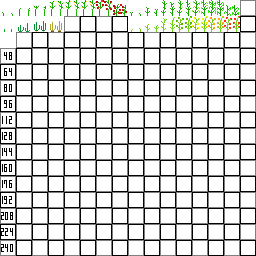
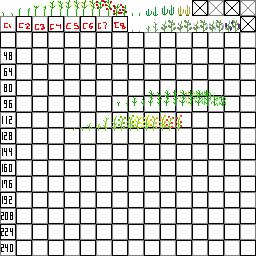
Fixed Crop Textures, added eggplant seed and plant textures. Renamed creative tab. Started work on Tea plant. Fixed harvest item. Added item descriptors. Fixed bell pepper crop ID check.

diff --git a/Source/net/widux/stevetech/farming/ItemHarvest.java b/Source/net/widux/stevetech/farming/ItemHarvest.java
@@ -3,25 +3,27 @@ package net.widux.stevetech.farming;
 import java.util.List;
 
 import net.minecraft.creativetab.CreativeTabs;
+import net.minecraft.entity.player.EntityPlayer;
 import net.minecraft.item.Item;
 import net.minecraft.item.ItemStack;
 
 public class ItemHarvest extends Item
 {
 	
-	public static final String[] names = {"Tomato", "Onion", "Cucumber", "Eggplant", "Tea Leaves", "Raw Coffe Beans", "Roasted Coffee Beans", "Lettuce", "Radishes"};
+	public static final String[] names = {"Tomato", "Cucumber", "Eggplant", "Tea Leaves", "Raw Coffee Beans", "Roasted Coffee Beans", "Lettuce", "Radishes"};
+	public static final String[] info = {"", "", "", "", "Should be roasted before use", "", "", ""};
 	
 	public ItemHarvest(int ID)
 	{
 		super(ID);
 		this.setMaxDamage(0);
 		this.setHasSubtypes(true);
-		this.setCreativeTab(SteveTechFarming.betterFarmingTab);
+		this.setCreativeTab(SteveTechFarming.stFarmingTab);
 	}
 	
 	public String getTextureFile()
 	{
-		return "/widux/betterfarming/Item.png";
+		return "/net/widux/stevetech/farming/item.png";
 	}
 	
 	public int getIconFromDamage(int meta)
@@ -29,9 +31,18 @@ public class ItemHarvest extends Item
 		return 16 + meta;
 	}
 	
-	public String getUnlocalizedName(ItemStack item)
+	public String getItemNameIS(ItemStack item)
 	{
 		return "WiduX-BF-Item-Harvest." + names[item.getItemDamage()];
+	}
+	
+	@Override
+	public void addInformation(ItemStack item, EntityPlayer player, List list, boolean flag)
+	{
+		if(!"".equals(info[item.getItemDamage()])) // If this item has an extended description
+		{
+			list.add(info[item.getItemDamage()]);
+		}
 	}
 	
     @SuppressWarnings({ "rawtypes", "unchecked" })

diff --git a/Source/net/widux/stevetech/farming/EnumCrop.java b/Source/net/widux/stevetech/farming/EnumCrop.java
@@ -8,7 +8,8 @@ public enum EnumCrop
 	TOMATO		("Tomato",		8, 2, 5, 3, 80, new ItemStack(SteveTechFarming.harvestedItems, 1, 0),	new ItemStack(SteveTechFarming.seeds, 1, 0),	true, true),
 	ONION		("Onion",		4, 1, 4, 1, 110, new ItemStack(SteveTechFarming.seeds, 1, 1),			null,											false, false),
 	CUCUMBER	("Cucumber",	0, 2, 4, 4, 60, new ItemStack(SteveTechFarming.harvestedItems, 1, 1),	new ItemStack(SteveTechFarming.seeds, 1, 2),	true, true),
-	EGGPLANT	("Eggplant",	4, 1, 4, 1, 140, new ItemStack(SteveTechFarming.harvestedItems, 1, 2),	new ItemStack(SteveTechFarming.seeds, 1, 3),	true, true);//,
+	EGGPLANT	("Eggplant",	7, 1, 5, 3, 140, new ItemStack(SteveTechFarming.harvestedItems, 1, 2),	new ItemStack(SteveTechFarming.seeds, 1, 3),	true, true),
+	TEA			("Tea",			4, 2, 4, 4, 100, new ItemStack(SteveTechFarming.harvestedItems, 1, 3),	new ItemStack(SteveTechFarming.seeds, 1, 4),	true, true);
 	//BEANS		("Beans",		7, 2, 5, 1, 50, new ItemStack(SteveTechFarming.seeds, 1, 1),			null,											false, false),
 	//BELLPEPPER	("Bell Pepper",	7, 1, 4, 3, 70, new ItemStack(SteveTechFarming.harvestedItems, 1, 0),	new ItemStack(SteveTechFarming.seeds, 1, 3),	true, true),
 	//LETTUCE		("Lettuce",		0, 1, 5, 4, 55, new ItemStack(SteveTechFarming.harvestedItems, 1, 6),	new ItemStack(SteveTechFarming.seeds, 1, 6),	true, true);

diff --git a/Source/net/widux/stevetech/farming/TileEntityCrop.java b/Source/net/widux/stevetech/farming/TileEntityCrop.java
@@ -135,13 +135,13 @@ public class TileEntityCrop extends TileEntity
 		boolean dropsSeed = this.crop.getDropsSeed();
 		ItemStack[] items = {null, null};
 		
-		if(crop == 3) // Bell Pepper
+		if(crop == 9) // Bell Pepper TODO Verify this.
 		{
 			items[0] = new ItemStack(SteveTechFarming.harvestedItems, getAmountDropped(true), stage - 2);
 			items[1] = new ItemStack(SteveTechFarming.seeds, getAmountDropped(false), crop);
 			return items;
 		}
-		else if(!dropsSeed) // Shouldn't drop seeds, just harvest
+		if(!dropsSeed) // Shouldn't drop seeds, just harvest
 		{
 			items[0] = new ItemStack(getDropHarvest(crop).itemID, getAmountDropped(true), getDropHarvest(crop).getItemDamage());
 			items[1] = null;
@@ -325,8 +325,7 @@ public class TileEntityCrop extends TileEntity
 		else
 		{
 			int half = this.crop.getGrowthSpeed() / 2;
-			
-			return (int) (half - (half * (this.fertilizer / 115.000F)));
+			return (int) (half - (half * (this.fertilizer / 200.000F)));
 		}
 	}
 	

diff --git a/Source/net/widux/stevetech/farming/ClientProxy.java b/Source/net/widux/stevetech/farming/ClientProxy.java
@@ -54,7 +54,7 @@ public class ClientProxy extends CommonProxy
 		LanguageRegistry.addName(new ItemStack(SteveTechFarming.creativeTools, 1, 2), "Full Fertilizer");
 		LanguageRegistry.addName(new ItemStack(SteveTechFarming.creativeTools, 1, 3), "Plant Info");
 		
-		LanguageRegistry.instance().addStringLocalization("itemGroup.BetterFarming", "en_US", "BetterFarming");
+		LanguageRegistry.instance().addStringLocalization("itemGroup.SteveTechFarming", "en_US", "SteveTech Farming");
 		//LanguageRegistry.addName(new ItemStack(SteveTechFarming.fruits, 1, 0), "Fruit");
 	}
 	

diff --git a/Source/net/widux/stevetech/farming/SteveTechFarming.java b/Source/net/widux/stevetech/farming/SteveTechFarming.java
@@ -41,7 +41,7 @@ public class SteveTechFarming
 	public static Item harvestedItems;
 	public static Item creativeTools;
 	
-	public static CreativeTabs betterFarmingTab = new CreativeTabFarming("BetterFarming");
+	public static CreativeTabs stFarmingTab = new CreativeTabFarming("SteveTechFarming");
 	
 	//public static int renderFruitID;
 	public static int renderCropID;

diff --git a/Source/net/widux/stevetech/farming/ItemCreativeTools.java b/Source/net/widux/stevetech/farming/ItemCreativeTools.java
@@ -17,7 +17,7 @@ public class ItemCreativeTools extends Item
 		super(ID);
 		this.setMaxDamage(0);
 		this.setHasSubtypes(true);
-		this.setCreativeTab(SteveTechFarming.betterFarmingTab);
+		this.setCreativeTab(SteveTechFarming.stFarmingTab);
 	}
 	
 	public String getTextureFile()

diff --git a/Source/net/widux/stevetech/farming/BlockCrops.java b/Source/net/widux/stevetech/farming/BlockCrops.java
@@ -15,7 +15,7 @@ public class BlockCrops extends BlockContainer
 	public BlockCrops(int ID)
 	{
 		super(ID, Material.plants);
-		this.setCreativeTab(SteveTechFarming.betterFarmingTab);
+		this.setCreativeTab(SteveTechFarming.stFarmingTab);
 		this.setTickRandomly(true);
 	}
 	

diff --git a/Source/net/widux/stevetech/farming/ItemSeeds.java b/Source/net/widux/stevetech/farming/ItemSeeds.java
@@ -20,7 +20,7 @@ public class ItemSeeds extends Item
 		super(ID);
 		this.setMaxDamage(0);
 		this.setHasSubtypes(true);
-		this.setCreativeTab(SteveTechFarming.betterFarmingTab);
+		this.setCreativeTab(SteveTechFarming.stFarmingTab);
 	}
 	
 	public String getTextureFile()
